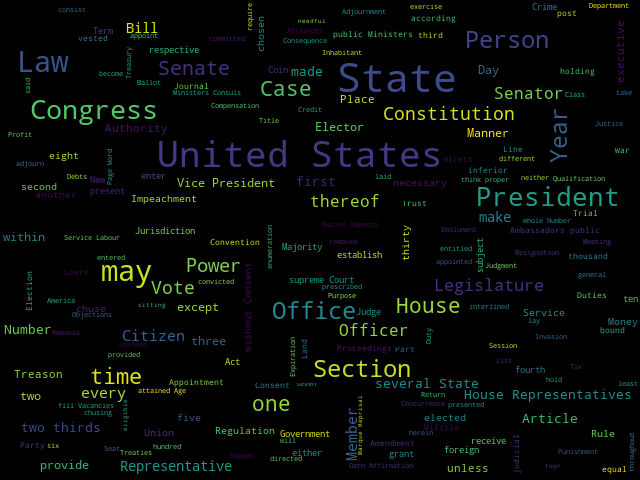
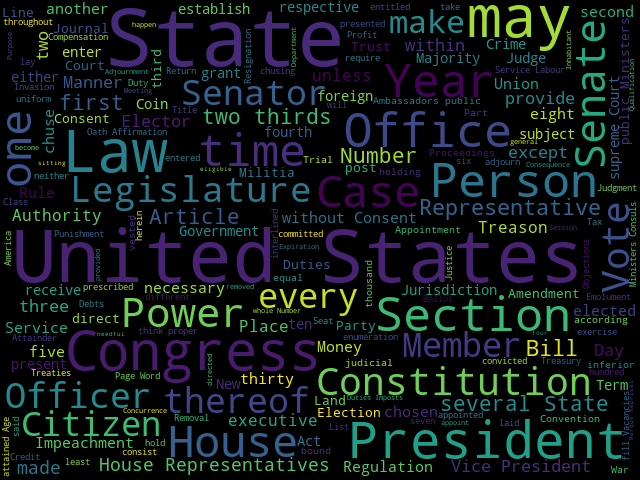
Site updated: 2017-08-26 00:28:11

diff --git a/2017/08/22/python-jieba-wordcloud/index.html b/2017/08/22/python-jieba-wordcloud/index.html
@@ -126,7 +126,7 @@ import jiebaseg_list = jieba.cut(srcWd, cut_all=True)print(u&apos;Full mode:&apo
 <meta property="og:image" content="https://brantou.github.io/images/xiyouji-mask.png">
 <meta property="og:image" content="https://brantou.github.io/images/xiyouji-custom.png">
 <meta property="og:image" content="https://brantou.github.io/images/xiyouji-color.png">
-<meta property="og:updated_time" content="2017-08-25T16:21:31.338Z">
+<meta property="og:updated_time" content="2017-08-25T16:27:35.847Z">
 <meta name="twitter:card" content="summary">
 <meta name="twitter:title" content="玩转词云">
 <meta name="twitter:description" content="1 jieba中文分词&amp;#x2013;做最好的Python中文分词组件
@@ -468,12 +468,12 @@ import jiebaseg_list = jieba.cut(srcWd, cut_all=True)print(u&apos;Full mode:&apo
         
 
 
-<div id="outline-container-orge8bc921" class="outline-2">
-<h2 id="orge8bc921"><a id="ID-681fffd0-61dc-44eb-860a-82cfbfe2c080"></a><span class="section-number-2">1</span> jieba中文分词&#x2013;做最好的Python中文分词组件</h2>
+<div id="outline-container-org7bcb9c1" class="outline-2">
+<h2 id="org7bcb9c1"><a id="ID-681fffd0-61dc-44eb-860a-82cfbfe2c080"></a><span class="section-number-2">1</span> jieba中文分词&#x2013;做最好的Python中文分词组件</h2>
 <div class="outline-text-2" id="text-1">
 </div>
-<div id="outline-container-orgd99db56" class="outline-3">
-<h3 id="orgd99db56"><a id="ID-a7a6f9a3-eee0-4e7a-8ec2-a3281cbdb2ba"></a><span class="section-number-3">1.1</span> 分词</h3>
+<div id="outline-container-orgf81f9bf" class="outline-3">
+<h3 id="orgf81f9bf"><a id="ID-a7a6f9a3-eee0-4e7a-8ec2-a3281cbdb2ba"></a><span class="section-number-3">1.1</span> 分词</h3>
 <div class="outline-text-3" id="text-1-1">
 <div class="org-src-container">
 <figure class="highlight python"><table><tr><td class="code"><pre><span class="line"><span class="keyword">import</span> jieba</span><br><span class="line"></span><br><span class="line">seg_list = jieba.cut(srcWd, cut_all=<span class="keyword">True</span>)</span><br><span class="line">print(<span class="string">u'Full mode:'</span> + <span class="string">u'/ '</span>.join(seg_list))</span><br><span class="line"></span><br><span class="line">seg_list = jieba.cut(srcWd, cut_all=<span class="keyword">False</span>)</span><br><span class="line">print(<span class="string">u'Default mode:'</span> + <span class="string">u'/ '</span>.join(seg_list))</span><br><span class="line"></span><br><span class="line">seg_list = jieba.cut_for_search(srcWd)</span><br><span class="line">print(<span class="string">u', '</span>.join(seg_list))</span><br></pre></td></tr></table></figure>
@@ -494,8 +494,8 @@ Default mode:我/ 目前/ 在/ 学习/ Golang/ 和/ Python/ 。
 </pre>
 </div>
 </div>
-<div id="outline-container-org2e6aede" class="outline-3">
-<h3 id="org2e6aede"><a id="ID-ba473993-dd11-4116-8578-b31a6161ed0e"></a><span class="section-number-3">1.2</span> 自定义词典</h3>
+<div id="outline-container-orgd01f3a2" class="outline-3">
+<h3 id="orgd01f3a2"><a id="ID-ba473993-dd11-4116-8578-b31a6161ed0e"></a><span class="section-number-3">1.2</span> 自定义词典</h3>
 <div class="outline-text-3" id="text-1-2">
 <p>
 招聘信息收集了很多，但是关键字提取却不是很理想，我查看了jiaba的词典里，基本没有对英文专有名词的支持，
@@ -520,8 +520,8 @@ Default mode:我/ 目前/ 在/ 学习/ Golang/ 和/ Python/ 。
 </div>
 </div>
 
-<div id="outline-container-org2d8f1ad" class="outline-3">
-<h3 id="org2d8f1ad"><a id="ID-0f9f838d-0b96-4d20-bbd0-f9b31664e187"></a><span class="section-number-3">1.3</span> 调整词典</h3>
+<div id="outline-container-org5434564" class="outline-3">
+<h3 id="org5434564"><a id="ID-0f9f838d-0b96-4d20-bbd0-f9b31664e187"></a><span class="section-number-3">1.3</span> 调整词典</h3>
 <div class="outline-text-3" id="text-1-3">
 <div class="org-src-container">
 <figure class="highlight python"><table><tr><td class="code"><pre><span class="line"><span class="keyword">import</span> jieba</span><br><span class="line"><span class="keyword">import</span> jieba.analyse</span><br><span class="line"></span><br><span class="line">print(<span class="string">', '</span>.join(</span><br><span class="line">    jieba.analyse.extract_tags(srcWd, allowPOS=(<span class="string">'n'</span>, <span class="string">'nz'</span>, <span class="string">'eng'</span>, <span class="string">'vn'</span>))))</span><br><span class="line">jieba.load_userdict(<span class="string">'../resource/userdict.txt'</span>)</span><br><span class="line">print(<span class="string">', '</span>.join(</span><br><span class="line">    jieba.analyse.extract_tags(srcWd, allowPOS=(<span class="string">'n'</span>, <span class="string">'nz'</span>, <span class="string">'eng'</span>, <span class="string">'vn'</span>))))</span><br></pre></td></tr></table></figure>
@@ -535,8 +535,8 @@ Default mode:我/ 目前/ 在/ 学习/ Golang/ 和/ Python/ 。
 </div>
 </div>
 
-<div id="outline-container-orgf63fe7d" class="outline-3">
-<h3 id="orgf63fe7d"><a id="ID-7308abe6-a074-4153-a4c0-bb74f199bb07"></a><span class="section-number-3">1.4</span> 关键词提取</h3>
+<div id="outline-container-org0534ef3" class="outline-3">
+<h3 id="org0534ef3"><a id="ID-7308abe6-a074-4153-a4c0-bb74f199bb07"></a><span class="section-number-3">1.4</span> 关键词提取</h3>
 <div class="outline-text-3" id="text-1-4">
 <div class="org-src-container">
 <figure class="highlight python"><table><tr><td class="code"><pre><span class="line"><span class="keyword">import</span> jieba.analyse</span><br><span class="line"></span><br><span class="line">print(<span class="string">', '</span>.join(jieba.analyse.extract_tags(srcWd, allowPOS=())))</span><br><span class="line">print(<span class="string">', '</span>.join(</span><br><span class="line">    jieba.analyse.extract_tags(srcWd, allowPOS=(<span class="string">'n'</span>, <span class="string">'nt'</span>, <span class="string">'nz'</span>, <span class="string">'eng'</span>, <span class="string">'vn'</span></span><br><span class="line">                                                ))))</span><br><span class="line">wordlst = jieba.analyse.extract_tags(</span><br><span class="line">    srcWd, withWeight=<span class="keyword">True</span>, allowPOS=(<span class="string">'n'</span>, <span class="string">'nt'</span>, <span class="string">'nz'</span>, <span class="string">'eng'</span>, <span class="string">'vn'</span>))</span><br><span class="line"></span><br><span class="line"><span class="keyword">for</span> word <span class="keyword">in</span> wordlst:</span><br><span class="line">    print(word[<span class="number">0</span>] + <span class="string">": "</span> + str(word[<span class="number">1</span>]))</span><br></pre></td></tr></table></figure>
@@ -548,8 +548,8 @@ Default mode:我/ 目前/ 在/ 学习/ Golang/ 和/ Python/ 。
 </div>
 </div>
 
-<div id="outline-container-org2fbc541" class="outline-3">
-<h3 id="org2fbc541"><a id="ID-ba65f4b7-159b-440a-9df3-ac90465716e4"></a><span class="section-number-3">1.5</span> 词性标注</h3>
+<div id="outline-container-orgc01c36e" class="outline-3">
+<h3 id="orgc01c36e"><a id="ID-ba65f4b7-159b-440a-9df3-ac90465716e4"></a><span class="section-number-3">1.5</span> 词性标注</h3>
 <div class="outline-text-3" id="text-1-5">
 <div class="org-src-container">
 <figure class="highlight python"><table><tr><td class="code"><pre><span class="line"><span class="keyword">import</span> jieba</span><br><span class="line"><span class="keyword">import</span> jieba.posseg <span class="keyword">as</span> pseg</span><br><span class="line"></span><br><span class="line">jieba.load_userdict(<span class="string">'../resource/userdict.txt'</span>)</span><br><span class="line">words = pseg.cut(srcWd)</span><br><span class="line"><span class="keyword">for</span> word, flag <span class="keyword">in</span> words:</span><br><span class="line">    print(<span class="string">'%s %s'</span> % (word, flag))</span><br></pre></td></tr></table></figure>
@@ -558,16 +558,16 @@ Default mode:我/ 目前/ 在/ 学习/ Golang/ 和/ Python/ 。
 </div>
 </div>
 
-<div id="outline-container-org368661f" class="outline-2">
-<h2 id="org368661f"><a id="ID-d3a8f6d2-c043-4104-9f83-08e71a7a5c7a"></a><span class="section-number-2">2</span> 词云</h2>
+<div id="outline-container-org824ef1e" class="outline-2">
+<h2 id="org824ef1e"><a id="ID-d3a8f6d2-c043-4104-9f83-08e71a7a5c7a"></a><span class="section-number-2">2</span> 词云</h2>
 <div class="outline-text-2" id="text-2">
 </div>
 
-<div id="outline-container-org12e8883" class="outline-3">
-<h3 id="org12e8883"><a id="ID-9133f12f-f7ba-4019-b21f-fbdea70088b1"></a><span class="section-number-3">2.1</span> 简单词云&#x2013;美国宪法的词云</h3>
+<div id="outline-container-org0eeee3d" class="outline-3">
+<h3 id="org0eeee3d"><a id="ID-9133f12f-f7ba-4019-b21f-fbdea70088b1"></a><span class="section-number-3">2.1</span> 简单词云&#x2013;美国宪法的词云</h3>
 <div class="outline-text-3" id="text-2-1">
 <div class="org-src-container">
-<figure class="highlight python"><table><tr><td class="code"><pre><span class="line"><span class="string">"""</span><br><span class="line">Minimal Example</span><br><span class="line">===============</span><br><span class="line">Generating a square wordcloud from the US constitution using default arguments.</span><br><span class="line">"""</span></span><br><span class="line"></span><br><span class="line"><span class="keyword">from</span> wordcloud <span class="keyword">import</span> WordCloud</span><br><span class="line"></span><br><span class="line"><span class="comment"># Read the whole text.</span></span><br><span class="line">text = open(<span class="string">'../resource/constitution.txt'</span>).read()</span><br><span class="line"></span><br><span class="line"><span class="comment"># Generate a word cloud image</span></span><br><span class="line">wordcloud = WordCloud(width=<span class="number">640</span>, height=<span class="number">480</span>).generate(text)</span><br><span class="line">wordcloud.to_file(<span class="string">'../images/constitution-n.png'</span>)</span><br><span class="line"></span><br><span class="line">wordcloud = WordCloud(width=<span class="number">640</span>, height=<span class="number">480</span>, max_font_size=<span class="number">40</span>).generate(text)</span><br><span class="line">wordcloud.to_file(<span class="string">'../images/constitution-s.png'</span>)</span><br></pre></td></tr></table></figure>
+<figure class="highlight python"><table><tr><td class="code"><pre><span class="line"><span class="string">"""</span><br><span class="line">Minimal Example</span><br><span class="line">===============</span><br><span class="line">Generating a square wordcloud from the US constitution using default arguments.</span><br><span class="line">"""</span></span><br><span class="line"></span><br><span class="line"><span class="keyword">from</span> wordcloud <span class="keyword">import</span> WordCloud</span><br><span class="line"></span><br><span class="line"><span class="comment"># Read the whole text.</span></span><br><span class="line">text = open(<span class="string">'../resource/constitution.txt'</span>).read()</span><br><span class="line"></span><br><span class="line"><span class="comment"># Generate a word cloud image</span></span><br><span class="line">wordcloud = WordCloud(width=<span class="number">640</span>, height=<span class="number">480</span>).generate(text)</span><br><span class="line">wordcloud.to_file(<span class="string">'../images/constitution-n.png'</span>)</span><br><span class="line"></span><br><span class="line">wordcloud = WordCloud(width=<span class="number">640</span>, height=<span class="number">480</span>, max_font_size=<span class="number">80</span>).generate(text)</span><br><span class="line">wordcloud.to_file(<span class="string">'../images/constitution-s.png'</span>)</span><br></pre></td></tr></table></figure>
 </div>
 
 <img src="/images/constitution-n.png">
@@ -576,11 +576,11 @@ Default mode:我/ 目前/ 在/ 学习/ Golang/ 和/ Python/ 。
 </div>
 </div>
 
-<div id="outline-container-orge161fb3" class="outline-3">
-<h3 id="orge161fb3"><a id="ID-a83e73b6-c132-4eb3-b968-d985cd2a5ceb"></a><span class="section-number-3">2.2</span> 西游记的词云</h3>
+<div id="outline-container-orgb64fb5a" class="outline-3">
+<h3 id="orgb64fb5a"><a id="ID-a83e73b6-c132-4eb3-b968-d985cd2a5ceb"></a><span class="section-number-3">2.2</span> 西游记的词云</h3>
 <div class="outline-text-3" id="text-2-2">
 <div class="org-src-container">
-<figure class="highlight python"><table><tr><td class="code"><pre><span class="line"><span class="keyword">import</span> jieba.analyse</span><br><span class="line"><span class="keyword">from</span> wordcloud <span class="keyword">import</span> WordCloud, ImageColorGenerator</span><br><span class="line"><span class="keyword">import</span> numpy <span class="keyword">as</span> np</span><br><span class="line"><span class="keyword">from</span> PIL <span class="keyword">import</span> Image</span><br><span class="line"><span class="keyword">import</span> random</span><br><span class="line"></span><br><span class="line"></span><br><span class="line"><span class="function"><span class="keyword">def</span> <span class="title">grey_color_func</span><span class="params">(word,</span><br><span class="line">                    font_size,</span><br><span class="line">                    position,</span><br><span class="line">                    orientation,</span><br><span class="line">                    random_state=None,</span><br><span class="line">                    **kwargs)</span>:</span></span><br><span class="line">    <span class="keyword">return</span> <span class="string">"hsl(0, 0%%, %d%%)"</span> % random.randint(<span class="number">60</span>, <span class="number">100</span>)</span><br><span class="line"></span><br><span class="line"></span><br><span class="line">font_path = <span class="string">'../resource/tyzkaishu.ttf'</span></span><br><span class="line">width = <span class="number">640</span></span><br><span class="line">height = <span class="number">480</span></span><br><span class="line"></span><br><span class="line">text = open(<span class="string">'../resource/xiyouji.txt'</span>).read()</span><br><span class="line">words = jieba.analyse.extract_tags(text, topK=<span class="number">200</span>, withWeight=<span class="keyword">True</span>)</span><br><span class="line"></span><br><span class="line">word_freqs = {}</span><br><span class="line"><span class="keyword">for</span> word <span class="keyword">in</span> words:</span><br><span class="line">    word_freqs[word[<span class="number">0</span>]] = word[<span class="number">1</span>]</span><br><span class="line"></span><br><span class="line">wordcloud = WordCloud(</span><br><span class="line">    font_path=font_path, width=width,</span><br><span class="line">    height=height).generate_from_frequencies(word_freqs)</span><br><span class="line">wordcloud.to_file(<span class="string">'../images/xiyouji.png'</span>)</span><br><span class="line"></span><br><span class="line">mask = np.array(Image.open(<span class="string">'../resource/stormtrooper_mask.png'</span>))</span><br><span class="line">wordcloud = WordCloud(</span><br><span class="line">    font_path=font_path,</span><br><span class="line">    width=width,</span><br><span class="line">    height=height,</span><br><span class="line">    mask=mask).generate_from_frequencies(word_freqs)</span><br><span class="line">wordcloud.to_file(<span class="string">'../images/xiyouji-mask.png'</span>)</span><br><span class="line"></span><br><span class="line"><span class="comment"># recolor wordcloud</span></span><br><span class="line">wordcloud.recolor(color_func=grey_color_func, random_state=<span class="number">3</span>)</span><br><span class="line">wordcloud.to_file(<span class="string">'../images/xiyouji-custom.png'</span>)</span><br><span class="line"></span><br><span class="line">alice_coloring = np.array(Image.open(<span class="string">'../resource/alice_color.png'</span>))</span><br><span class="line"><span class="comment"># create coloring from image</span></span><br><span class="line">image_colors = ImageColorGenerator(alice_coloring)</span><br><span class="line">wordcloud = WordCloud(</span><br><span class="line">    font_path=font_path,</span><br><span class="line">    width=width,</span><br><span class="line">    height=height,</span><br><span class="line">    background_color=<span class="string">"white"</span>,</span><br><span class="line">    mask=alice_coloring,</span><br><span class="line">    max_font_size=<span class="number">40</span>,</span><br><span class="line">    random_state=<span class="number">42</span>).generate_from_frequencies(word_freqs)</span><br><span class="line"></span><br><span class="line"><span class="comment"># recolor wordcloud</span></span><br><span class="line">wordcloud.recolor(color_func=image_colors)</span><br><span class="line">wordcloud.to_file(<span class="string">'../images/xiyouji-color.png'</span>)</span><br></pre></td></tr></table></figure>
+<figure class="highlight python"><table><tr><td class="code"><pre><span class="line"><span class="keyword">import</span> jieba.analyse</span><br><span class="line"><span class="keyword">from</span> wordcloud <span class="keyword">import</span> WordCloud, ImageColorGenerator</span><br><span class="line"><span class="keyword">import</span> numpy <span class="keyword">as</span> np</span><br><span class="line"><span class="keyword">from</span> PIL <span class="keyword">import</span> Image</span><br><span class="line"><span class="keyword">import</span> random</span><br><span class="line"></span><br><span class="line"></span><br><span class="line"><span class="function"><span class="keyword">def</span> <span class="title">grey_color_func</span><span class="params">(word,</span><br><span class="line">                    font_size,</span><br><span class="line">                    position,</span><br><span class="line">                    orientation,</span><br><span class="line">                    random_state=None,</span><br><span class="line">                    **kwargs)</span>:</span></span><br><span class="line">    <span class="keyword">return</span> <span class="string">"hsl(0, 0%%, %d%%)"</span> % random.randint(<span class="number">60</span>, <span class="number">100</span>)</span><br><span class="line"></span><br><span class="line"></span><br><span class="line">font_path = <span class="string">'../resource/tyzkaishu.ttf'</span></span><br><span class="line">width = <span class="number">640</span></span><br><span class="line">height = <span class="number">480</span></span><br><span class="line"></span><br><span class="line">text = open(<span class="string">'../resource/xiyouji.txt'</span>).read()</span><br><span class="line">words = jieba.analyse.extract_tags(text, topK=<span class="number">200</span>, withWeight=<span class="keyword">True</span>)</span><br><span class="line"></span><br><span class="line">word_freqs = {}</span><br><span class="line"><span class="keyword">for</span> word <span class="keyword">in</span> words:</span><br><span class="line">    word_freqs[word[<span class="number">0</span>]] = word[<span class="number">1</span>]</span><br><span class="line"></span><br><span class="line">wordcloud = WordCloud(</span><br><span class="line">    font_path=font_path, width=width,</span><br><span class="line">    height=height).generate_from_frequencies(word_freqs)</span><br><span class="line">wordcloud.to_file(<span class="string">'../images/xiyouji.png'</span>)</span><br><span class="line"></span><br><span class="line">mask = np.array(Image.open(<span class="string">'../resource/stormtrooper_mask.png'</span>))</span><br><span class="line">wordcloud = WordCloud(</span><br><span class="line">    font_path=font_path, width=width, height=height,</span><br><span class="line">    mask=mask).generate_from_frequencies(word_freqs)</span><br><span class="line">wordcloud.to_file(<span class="string">'../images/xiyouji-mask.png'</span>)</span><br><span class="line"></span><br><span class="line"><span class="comment"># recolor wordcloud</span></span><br><span class="line">wordcloud.recolor(color_func=grey_color_func, random_state=<span class="number">3</span>)</span><br><span class="line">wordcloud.to_file(<span class="string">'../images/xiyouji-custom.png'</span>)</span><br><span class="line"></span><br><span class="line">alice_coloring = np.array(Image.open(<span class="string">'../resource/alice_color.png'</span>))</span><br><span class="line">wordcloud = WordCloud(</span><br><span class="line">    font_path=font_path,</span><br><span class="line">    width=width,</span><br><span class="line">    height=height,</span><br><span class="line">    background_color=<span class="string">"white"</span>,</span><br><span class="line">    mask=alice_coloring,</span><br><span class="line">    max_font_size=<span class="number">80</span>,</span><br><span class="line">    random_state=<span class="number">42</span>).generate_from_frequencies(word_freqs)</span><br><span class="line"></span><br><span class="line"><span class="comment"># create coloring from image</span></span><br><span class="line">image_colors = ImageColorGenerator(alice_coloring)</span><br><span class="line"></span><br><span class="line"><span class="comment"># recolor wordcloud</span></span><br><span class="line">wordcloud.recolor(color_func=image_colors)</span><br><span class="line">wordcloud.to_file(<span class="string">'../images/xiyouji-color.png'</span>)</span><br></pre></td></tr></table></figure>
 </div>
 
 <img src="/images/xiyouji.png">
@@ -594,7 +594,7 @@ Default mode:我/ 目前/ 在/ 学习/ Golang/ 和/ Python/ 。
 </div>
 </div>
 
-Last Updated 2017-08-26 Sat 00:21.<br>Render by <a href="https://github.com/CodeFalling/hexo-renderer-org" rel="external nofollow noopener noreferrer" target="_blank">hexo-renderer-org</a> with <a href="http://www.gnu.org/software/emacs/" rel="external nofollow noopener noreferrer" target="_blank">Emacs</a> 24.5.1 (<a href="http://orgmode.org" rel="external nofollow noopener noreferrer" target="_blank">Org</a> mode 9.0.6)
+Last Updated 2017-08-26 Sat 00:27.<br>Render by <a href="https://github.com/CodeFalling/hexo-renderer-org" rel="external nofollow noopener noreferrer" target="_blank">hexo-renderer-org</a> with <a href="http://www.gnu.org/software/emacs/" rel="external nofollow noopener noreferrer" target="_blank">Emacs</a> 24.5.1 (<a href="http://orgmode.org" rel="external nofollow noopener noreferrer" target="_blank">Org</a> mode 9.0.6)
 
       
     </div>
@@ -856,7 +856,7 @@ Last Updated 2017-08-26 Sat 00:21.<br>Render by <a href="https://github.com/Code
             
 
             
-              <div class="post-toc-content"><ol class="nav"><li class="nav-item nav-level-2"><a class="nav-link" href="#orge8bc921"><span class="nav-text">1 jieba中文分词–做最好的Python中文分词组件</span></a><ol class="nav-child"><li class="nav-item nav-level-3"><a class="nav-link" href="#orgd99db56"><span class="nav-text">1.1 分词</span></a></li><li class="nav-item nav-level-3"><a class="nav-link" href="#org2e6aede"><span class="nav-text">1.2 自定义词典</span></a></li><li class="nav-item nav-level-3"><a class="nav-link" href="#org2d8f1ad"><span class="nav-text">1.3 调整词典</span></a></li><li class="nav-item nav-level-3"><a class="nav-link" href="#orgf63fe7d"><span class="nav-text">1.4 关键词提取</span></a></li><li class="nav-item nav-level-3"><a class="nav-link" href="#org2fbc541"><span class="nav-text">1.5 词性标注</span></a></li></ol></li><li class="nav-item nav-level-2"><a class="nav-link" href="#org368661f"><span class="nav-text">2 词云</span></a><ol class="nav-child"><li class="nav-item nav-level-3"><a class="nav-link" href="#org12e8883"><span class="nav-text">2.1 简单词云–美国宪法的词云</span></a></li><li class="nav-item nav-level-3"><a class="nav-link" href="#orge161fb3"><span class="nav-text">2.2 西游记的词云</span></a></li></ol></li></ol></div>
+              <div class="post-toc-content"><ol class="nav"><li class="nav-item nav-level-2"><a class="nav-link" href="#org7bcb9c1"><span class="nav-text">1 jieba中文分词–做最好的Python中文分词组件</span></a><ol class="nav-child"><li class="nav-item nav-level-3"><a class="nav-link" href="#orgf81f9bf"><span class="nav-text">1.1 分词</span></a></li><li class="nav-item nav-level-3"><a class="nav-link" href="#orgd01f3a2"><span class="nav-text">1.2 自定义词典</span></a></li><li class="nav-item nav-level-3"><a class="nav-link" href="#org5434564"><span class="nav-text">1.3 调整词典</span></a></li><li class="nav-item nav-level-3"><a class="nav-link" href="#org0534ef3"><span class="nav-text">1.4 关键词提取</span></a></li><li class="nav-item nav-level-3"><a class="nav-link" href="#orgc01c36e"><span class="nav-text">1.5 词性标注</span></a></li></ol></li><li class="nav-item nav-level-2"><a class="nav-link" href="#org824ef1e"><span class="nav-text">2 词云</span></a><ol class="nav-child"><li class="nav-item nav-level-3"><a class="nav-link" href="#org0eeee3d"><span class="nav-text">2.1 简单词云–美国宪法的词云</span></a></li><li class="nav-item nav-level-3"><a class="nav-link" href="#orgb64fb5a"><span class="nav-text">2.2 西游记的词云</span></a></li></ol></li></ol></div>
             
 
           </div>

diff --git a/index.html b/index.html
@@ -440,12 +440,12 @@
             
 
 
-<div id="outline-container-orge8bc921" class="outline-2">
-<h2 id="orge8bc921"><a id="ID-681fffd0-61dc-44eb-860a-82cfbfe2c080"></a><span class="section-number-2">1</span> jieba中文分词&#x2013;做最好的Python中文分词组件</h2>
+<div id="outline-container-org7bcb9c1" class="outline-2">
+<h2 id="org7bcb9c1"><a id="ID-681fffd0-61dc-44eb-860a-82cfbfe2c080"></a><span class="section-number-2">1</span> jieba中文分词&#x2013;做最好的Python中文分词组件</h2>
 <div class="outline-text-2" id="text-1">
 </div>
-<div id="outline-container-orgd99db56" class="outline-3">
-<h3 id="orgd99db56"><a id="ID-a7a6f9a3-eee0-4e7a-8ec2-a3281cbdb2ba"></a><span class="section-number-3">1.1</span> 分词</h3>
+<div id="outline-container-orgf81f9bf" class="outline-3">
+<h3 id="orgf81f9bf"><a id="ID-a7a6f9a3-eee0-4e7a-8ec2-a3281cbdb2ba"></a><span class="section-number-3">1.1</span> 分词</h3>
 <div class="outline-text-3" id="text-1-1">
 <div class="org-src-container">
 <figure class="highlight python"><table><tr><td class="code"><pre><span class="line"><span class="keyword">import</span> jieba</span><br><span class="line"></span><br><span class="line">seg_list = jieba.cut(srcWd, cut_all=<span class="keyword">True</span>)</span><br><span class="line">print(<span class="string">u'Full mode:'</span> + <span class="string">u'/ '</span>.join(seg_list))</span><br><span class="line"></span><br><span class="line">seg_list = jieba.cut(srcWd, cut_all=<span class="keyword">False</span>)</span><br><span class="line">print(<span class="string">u'Default mode:'</span> + <span class="string">u'/ '</span>.join(seg_list))</span><br><span class="line"></span><br><span class="line">seg_list = jieba.cut_for_search(srcWd)</span><br><span class="line">print(<span class="string">u', '</span>.join(seg_list))</span><br></pre></td></tr></table></figure>
@@ -466,8 +466,8 @@ Default mode:我/ 目前/ 在/ 学习/ Golang/ 和/ Python/ 。
 </pre>
 </div>
 </div>
-<div id="outline-container-org2e6aede" class="outline-3">
-<h3 id="org2e6aede"><a id="ID-ba473993-dd11-4116-8578-b31a6161ed0e"></a><span class="section-number-3">1.2</span> 自定义词典</h3>
+<div id="outline-container-orgd01f3a2" class="outline-3">
+<h3 id="orgd01f3a2"><a id="ID-ba473993-dd11-4116-8578-b31a6161ed0e"></a><span class="section-number-3">1.2</span> 自定义词典</h3>
 <div class="outline-text-3" id="text-1-2">
 <p>
 招聘信息收集了很多，但是关键字提取却不是很理想，我查看了jiaba的词典里，基本没有对英文专有名词的支持，
@@ -492,8 +492,8 @@ Default mode:我/ 目前/ 在/ 学习/ Golang/ 和/ Python/ 。
 </div>
 </div>
 
-<div id="outline-container-org2d8f1ad" class="outline-3">
-<h3 id="org2d8f1ad"><a id="ID-0f9f838d-0b96-4d20-bbd0-f9b31664e187"></a><span class="section-number-3">1.3</span> 调整词典</h3>
+<div id="outline-container-org5434564" class="outline-3">
+<h3 id="org5434564"><a id="ID-0f9f838d-0b96-4d20-bbd0-f9b31664e187"></a><span class="section-number-3">1.3</span> 调整词典</h3>
 <div class="outline-text-3" id="text-1-3">
 <div class="org-src-container">
 <figure class="highlight python"><table><tr><td class="code"><pre><span class="line"><span class="keyword">import</span> jieba</span><br><span class="line"><span class="keyword">import</span> jieba.analyse</span><br><span class="line"></span><br><span class="line">print(<span class="string">', '</span>.join(</span><br><span class="line">    jieba.analyse.extract_tags(srcWd, allowPOS=(<span class="string">'n'</span>, <span class="string">'nz'</span>, <span class="string">'eng'</span>, <span class="string">'vn'</span>))))</span><br><span class="line">jieba.load_userdict(<span class="string">'../resource/userdict.txt'</span>)</span><br><span class="line">print(<span class="string">', '</span>.join(</span><br><span class="line">    jieba.analyse.extract_tags(srcWd, allowPOS=(<span class="string">'n'</span>, <span class="string">'nz'</span>, <span class="string">'eng'</span>, <span class="string">'vn'</span>))))</span><br></pre></td></tr></table></figure>
@@ -507,8 +507,8 @@ Default mode:我/ 目前/ 在/ 学习/ Golang/ 和/ Python/ 。
 </div>
 </div>
 
-<div id="outline-container-orgf63fe7d" class="outline-3">
-<h3 id="orgf63fe7d"><a id="ID-7308abe6-a074-4153-a4c0-bb74f199bb07"></a><span class="section-number-3">1.4</span> 关键词提取</h3>
+<div id="outline-container-org0534ef3" class="outline-3">
+<h3 id="org0534ef3"><a id="ID-7308abe6-a074-4153-a4c0-bb74f199bb07"></a><span class="section-number-3">1.4</span> 关键词提取</h3>
 <div class="outline-text-3" id="text-1-4">
 <div class="org-src-container">
 <figure class="highlight python"><table><tr><td class="code"><pre><span class="line"><span class="keyword">import</span> jieba.analyse</span><br><span class="line"></span><br><span class="line">print(<span class="string">', '</span>.join(jieba.analyse.extract_tags(srcWd, allowPOS=())))</span><br><span class="line">print(<span class="string">', '</span>.join(</span><br><span class="line">    jieba.analyse.extract_tags(srcWd, allowPOS=(<span class="string">'n'</span>, <span class="string">'nt'</span>, <span class="string">'nz'</span>, <span class="string">'eng'</span>, <span class="string">'vn'</span></span><br><span class="line">                                                ))))</span><br><span class="line">wordlst = jieba.analyse.extract_tags(</span><br><span class="line">    srcWd, withWeight=<span class="keyword">True</span>, allowPOS=(<span class="string">'n'</span>, <span class="string">'nt'</span>, <span class="string">'nz'</span>, <span class="string">'eng'</span>, <span class="string">'vn'</span>))</span><br><span class="line"></span><br><span class="line"><span class="keyword">for</span> word <span class="keyword">in</span> wordlst:</span><br><span class="line">    print(word[<span class="number">0</span>] + <span class="string">": "</span> + str(word[<span class="number">1</span>]))</span><br></pre></td></tr></table></figure>
@@ -520,8 +520,8 @@ Default mode:我/ 目前/ 在/ 学习/ Golang/ 和/ Python/ 。
 </div>
 </div>
 
-<div id="outline-container-org2fbc541" class="outline-3">
-<h3 id="org2fbc541"><a id="ID-ba65f4b7-159b-440a-9df3-ac90465716e4"></a><span class="section-number-3">1.5</span> 词性标注</h3>
+<div id="outline-container-orgc01c36e" class="outline-3">
+<h3 id="orgc01c36e"><a id="ID-ba65f4b7-159b-440a-9df3-ac90465716e4"></a><span class="section-number-3">1.5</span> 词性标注</h3>
 <div class="outline-text-3" id="text-1-5">
 <div class="org-src-container">
 <figure class="highlight python"><table><tr><td class="code"><pre><span class="line"><span class="keyword">import</span> jieba</span><br><span class="line"><span class="keyword">import</span> jieba.posseg <span class="keyword">as</span> pseg</span><br><span class="line"></span><br><span class="line">jieba.load_userdict(<span class="string">'../resource/userdict.txt'</span>)</span><br><span class="line">words = pseg.cut(srcWd)</span><br><span class="line"><span class="keyword">for</span> word, flag <span class="keyword">in</span> words:</span><br><span class="line">    print(<span class="string">'%s %s'</span> % (word, flag))</span><br></pre></td></tr></table></figure>
@@ -530,16 +530,16 @@ Default mode:我/ 目前/ 在/ 学习/ Golang/ 和/ Python/ 。
 </div>
 </div>
 
-<div id="outline-container-org368661f" class="outline-2">
-<h2 id="org368661f"><a id="ID-d3a8f6d2-c043-4104-9f83-08e71a7a5c7a"></a><span class="section-number-2">2</span> 词云</h2>
+<div id="outline-container-org824ef1e" class="outline-2">
+<h2 id="org824ef1e"><a id="ID-d3a8f6d2-c043-4104-9f83-08e71a7a5c7a"></a><span class="section-number-2">2</span> 词云</h2>
 <div class="outline-text-2" id="text-2">
 </div>
 
-<div id="outline-container-org12e8883" class="outline-3">
-<h3 id="org12e8883"><a id="ID-9133f12f-f7ba-4019-b21f-fbdea70088b1"></a><span class="section-number-3">2.1</span> 简单词云&#x2013;美国宪法的词云</h3>
+<div id="outline-container-org0eeee3d" class="outline-3">
+<h3 id="org0eeee3d"><a id="ID-9133f12f-f7ba-4019-b21f-fbdea70088b1"></a><span class="section-number-3">2.1</span> 简单词云&#x2013;美国宪法的词云</h3>
 <div class="outline-text-3" id="text-2-1">
 <div class="org-src-container">
-<figure class="highlight python"><table><tr><td class="code"><pre><span class="line"><span class="string">"""</span><br><span class="line">Minimal Example</span><br><span class="line">===============</span><br><span class="line">Generating a square wordcloud from the US constitution using default arguments.</span><br><span class="line">"""</span></span><br><span class="line"></span><br><span class="line"><span class="keyword">from</span> wordcloud <span class="keyword">import</span> WordCloud</span><br><span class="line"></span><br><span class="line"><span class="comment"># Read the whole text.</span></span><br><span class="line">text = open(<span class="string">'../resource/constitution.txt'</span>).read()</span><br><span class="line"></span><br><span class="line"><span class="comment"># Generate a word cloud image</span></span><br><span class="line">wordcloud = WordCloud(width=<span class="number">640</span>, height=<span class="number">480</span>).generate(text)</span><br><span class="line">wordcloud.to_file(<span class="string">'../images/constitution-n.png'</span>)</span><br><span class="line"></span><br><span class="line">wordcloud = WordCloud(width=<span class="number">640</span>, height=<span class="number">480</span>, max_font_size=<span class="number">40</span>).generate(text)</span><br><span class="line">wordcloud.to_file(<span class="string">'../images/constitution-s.png'</span>)</span><br></pre></td></tr></table></figure>
+<figure class="highlight python"><table><tr><td class="code"><pre><span class="line"><span class="string">"""</span><br><span class="line">Minimal Example</span><br><span class="line">===============</span><br><span class="line">Generating a square wordcloud from the US constitution using default arguments.</span><br><span class="line">"""</span></span><br><span class="line"></span><br><span class="line"><span class="keyword">from</span> wordcloud <span class="keyword">import</span> WordCloud</span><br><span class="line"></span><br><span class="line"><span class="comment"># Read the whole text.</span></span><br><span class="line">text = open(<span class="string">'../resource/constitution.txt'</span>).read()</span><br><span class="line"></span><br><span class="line"><span class="comment"># Generate a word cloud image</span></span><br><span class="line">wordcloud = WordCloud(width=<span class="number">640</span>, height=<span class="number">480</span>).generate(text)</span><br><span class="line">wordcloud.to_file(<span class="string">'../images/constitution-n.png'</span>)</span><br><span class="line"></span><br><span class="line">wordcloud = WordCloud(width=<span class="number">640</span>, height=<span class="number">480</span>, max_font_size=<span class="number">80</span>).generate(text)</span><br><span class="line">wordcloud.to_file(<span class="string">'../images/constitution-s.png'</span>)</span><br></pre></td></tr></table></figure>
 </div>
 
 <img src="/images/constitution-n.png">
@@ -548,11 +548,11 @@ Default mode:我/ 目前/ 在/ 学习/ Golang/ 和/ Python/ 。
 </div>
 </div>
 
-<div id="outline-container-orge161fb3" class="outline-3">
-<h3 id="orge161fb3"><a id="ID-a83e73b6-c132-4eb3-b968-d985cd2a5ceb"></a><span class="section-number-3">2.2</span> 西游记的词云</h3>
+<div id="outline-container-orgb64fb5a" class="outline-3">
+<h3 id="orgb64fb5a"><a id="ID-a83e73b6-c132-4eb3-b968-d985cd2a5ceb"></a><span class="section-number-3">2.2</span> 西游记的词云</h3>
 <div class="outline-text-3" id="text-2-2">
 <div class="org-src-container">
-<figure class="highlight python"><table><tr><td class="code"><pre><span class="line"><span class="keyword">import</span> jieba.analyse</span><br><span class="line"><span class="keyword">from</span> wordcloud <span class="keyword">import</span> WordCloud, ImageColorGenerator</span><br><span class="line"><span class="keyword">import</span> numpy <span class="keyword">as</span> np</span><br><span class="line"><span class="keyword">from</span> PIL <span class="keyword">import</span> Image</span><br><span class="line"><span class="keyword">import</span> random</span><br><span class="line"></span><br><span class="line"></span><br><span class="line"><span class="function"><span class="keyword">def</span> <span class="title">grey_color_func</span><span class="params">(word,</span><br><span class="line">                    font_size,</span><br><span class="line">                    position,</span><br><span class="line">                    orientation,</span><br><span class="line">                    random_state=None,</span><br><span class="line">                    **kwargs)</span>:</span></span><br><span class="line">    <span class="keyword">return</span> <span class="string">"hsl(0, 0%%, %d%%)"</span> % random.randint(<span class="number">60</span>, <span class="number">100</span>)</span><br><span class="line"></span><br><span class="line"></span><br><span class="line">font_path = <span class="string">'../resource/tyzkaishu.ttf'</span></span><br><span class="line">width = <span class="number">640</span></span><br><span class="line">height = <span class="number">480</span></span><br><span class="line"></span><br><span class="line">text = open(<span class="string">'../resource/xiyouji.txt'</span>).read()</span><br><span class="line">words = jieba.analyse.extract_tags(text, topK=<span class="number">200</span>, withWeight=<span class="keyword">True</span>)</span><br><span class="line"></span><br><span class="line">word_freqs = {}</span><br><span class="line"><span class="keyword">for</span> word <span class="keyword">in</span> words:</span><br><span class="line">    word_freqs[word[<span class="number">0</span>]] = word[<span class="number">1</span>]</span><br><span class="line"></span><br><span class="line">wordcloud = WordCloud(</span><br><span class="line">    font_path=font_path, width=width,</span><br><span class="line">    height=height).generate_from_frequencies(word_freqs)</span><br><span class="line">wordcloud.to_file(<span class="string">'../images/xiyouji.png'</span>)</span><br><span class="line"></span><br><span class="line">mask = np.array(Image.open(<span class="string">'../resource/stormtrooper_mask.png'</span>))</span><br><span class="line">wordcloud = WordCloud(</span><br><span class="line">    font_path=font_path,</span><br><span class="line">    width=width,</span><br><span class="line">    height=height,</span><br><span class="line">    mask=mask).generate_from_frequencies(word_freqs)</span><br><span class="line">wordcloud.to_file(<span class="string">'../images/xiyouji-mask.png'</span>)</span><br><span class="line"></span><br><span class="line"><span class="comment"># recolor wordcloud</span></span><br><span class="line">wordcloud.recolor(color_func=grey_color_func, random_state=<span class="number">3</span>)</span><br><span class="line">wordcloud.to_file(<span class="string">'../images/xiyouji-custom.png'</span>)</span><br><span class="line"></span><br><span class="line">alice_coloring = np.array(Image.open(<span class="string">'../resource/alice_color.png'</span>))</span><br><span class="line"><span class="comment"># create coloring from image</span></span><br><span class="line">image_colors = ImageColorGenerator(alice_coloring)</span><br><span class="line">wordcloud = WordCloud(</span><br><span class="line">    font_path=font_path,</span><br><span class="line">    width=width,</span><br><span class="line">    height=height,</span><br><span class="line">    background_color=<span class="string">"white"</span>,</span><br><span class="line">    mask=alice_coloring,</span><br><span class="line">    max_font_size=<span class="number">40</span>,</span><br><span class="line">    random_state=<span class="number">42</span>).generate_from_frequencies(word_freqs)</span><br><span class="line"></span><br><span class="line"><span class="comment"># recolor wordcloud</span></span><br><span class="line">wordcloud.recolor(color_func=image_colors)</span><br><span class="line">wordcloud.to_file(<span class="string">'../images/xiyouji-color.png'</span>)</span><br></pre></td></tr></table></figure>
+<figure class="highlight python"><table><tr><td class="code"><pre><span class="line"><span class="keyword">import</span> jieba.analyse</span><br><span class="line"><span class="keyword">from</span> wordcloud <span class="keyword">import</span> WordCloud, ImageColorGenerator</span><br><span class="line"><span class="keyword">import</span> numpy <span class="keyword">as</span> np</span><br><span class="line"><span class="keyword">from</span> PIL <span class="keyword">import</span> Image</span><br><span class="line"><span class="keyword">import</span> random</span><br><span class="line"></span><br><span class="line"></span><br><span class="line"><span class="function"><span class="keyword">def</span> <span class="title">grey_color_func</span><span class="params">(word,</span><br><span class="line">                    font_size,</span><br><span class="line">                    position,</span><br><span class="line">                    orientation,</span><br><span class="line">                    random_state=None,</span><br><span class="line">                    **kwargs)</span>:</span></span><br><span class="line">    <span class="keyword">return</span> <span class="string">"hsl(0, 0%%, %d%%)"</span> % random.randint(<span class="number">60</span>, <span class="number">100</span>)</span><br><span class="line"></span><br><span class="line"></span><br><span class="line">font_path = <span class="string">'../resource/tyzkaishu.ttf'</span></span><br><span class="line">width = <span class="number">640</span></span><br><span class="line">height = <span class="number">480</span></span><br><span class="line"></span><br><span class="line">text = open(<span class="string">'../resource/xiyouji.txt'</span>).read()</span><br><span class="line">words = jieba.analyse.extract_tags(text, topK=<span class="number">200</span>, withWeight=<span class="keyword">True</span>)</span><br><span class="line"></span><br><span class="line">word_freqs = {}</span><br><span class="line"><span class="keyword">for</span> word <span class="keyword">in</span> words:</span><br><span class="line">    word_freqs[word[<span class="number">0</span>]] = word[<span class="number">1</span>]</span><br><span class="line"></span><br><span class="line">wordcloud = WordCloud(</span><br><span class="line">    font_path=font_path, width=width,</span><br><span class="line">    height=height).generate_from_frequencies(word_freqs)</span><br><span class="line">wordcloud.to_file(<span class="string">'../images/xiyouji.png'</span>)</span><br><span class="line"></span><br><span class="line">mask = np.array(Image.open(<span class="string">'../resource/stormtrooper_mask.png'</span>))</span><br><span class="line">wordcloud = WordCloud(</span><br><span class="line">    font_path=font_path, width=width, height=height,</span><br><span class="line">    mask=mask).generate_from_frequencies(word_freqs)</span><br><span class="line">wordcloud.to_file(<span class="string">'../images/xiyouji-mask.png'</span>)</span><br><span class="line"></span><br><span class="line"><span class="comment"># recolor wordcloud</span></span><br><span class="line">wordcloud.recolor(color_func=grey_color_func, random_state=<span class="number">3</span>)</span><br><span class="line">wordcloud.to_file(<span class="string">'../images/xiyouji-custom.png'</span>)</span><br><span class="line"></span><br><span class="line">alice_coloring = np.array(Image.open(<span class="string">'../resource/alice_color.png'</span>))</span><br><span class="line">wordcloud = WordCloud(</span><br><span class="line">    font_path=font_path,</span><br><span class="line">    width=width,</span><br><span class="line">    height=height,</span><br><span class="line">    background_color=<span class="string">"white"</span>,</span><br><span class="line">    mask=alice_coloring,</span><br><span class="line">    max_font_size=<span class="number">80</span>,</span><br><span class="line">    random_state=<span class="number">42</span>).generate_from_frequencies(word_freqs)</span><br><span class="line"></span><br><span class="line"><span class="comment"># create coloring from image</span></span><br><span class="line">image_colors = ImageColorGenerator(alice_coloring)</span><br><span class="line"></span><br><span class="line"><span class="comment"># recolor wordcloud</span></span><br><span class="line">wordcloud.recolor(color_func=image_colors)</span><br><span class="line">wordcloud.to_file(<span class="string">'../images/xiyouji-color.png'</span>)</span><br></pre></td></tr></table></figure>
 </div>
 
 <img src="/images/xiyouji.png">
@@ -566,7 +566,7 @@ Default mode:我/ 目前/ 在/ 学习/ Golang/ 和/ Python/ 。
 </div>
 </div>
 
-Last Updated 2017-08-26 Sat 00:21.<br>Render by <a href="https://github.com/CodeFalling/hexo-renderer-org" rel="external nofollow noopener noreferrer" target="_blank">hexo-renderer-org</a> with <a href="http://www.gnu.org/software/emacs/" rel="external nofollow noopener noreferrer" target="_blank">Emacs</a> 24.5.1 (<a href="http://orgmode.org" rel="external nofollow noopener noreferrer" target="_blank">Org</a> mode 9.0.6)
+Last Updated 2017-08-26 Sat 00:27.<br>Render by <a href="https://github.com/CodeFalling/hexo-renderer-org" rel="external nofollow noopener noreferrer" target="_blank">hexo-renderer-org</a> with <a href="http://www.gnu.org/software/emacs/" rel="external nofollow noopener noreferrer" target="_blank">Emacs</a> 24.5.1 (<a href="http://orgmode.org" rel="external nofollow noopener noreferrer" target="_blank">Org</a> mode 9.0.6)
 
           
         

diff --git a/about/index.html b/about/index.html
@@ -87,8 +87,6 @@
 
 
 
-  
-
 
   <link rel="alternate" href="/atom.xml" title="Brantou的日常" type="application/atom+xml">
 

diff --git a/categories/index.html b/categories/index.html
@@ -87,6 +87,8 @@
 
 
 
+  
+
 
   <link rel="alternate" href="/atom.xml" title="Brantou的日常" type="application/atom+xml">
 
